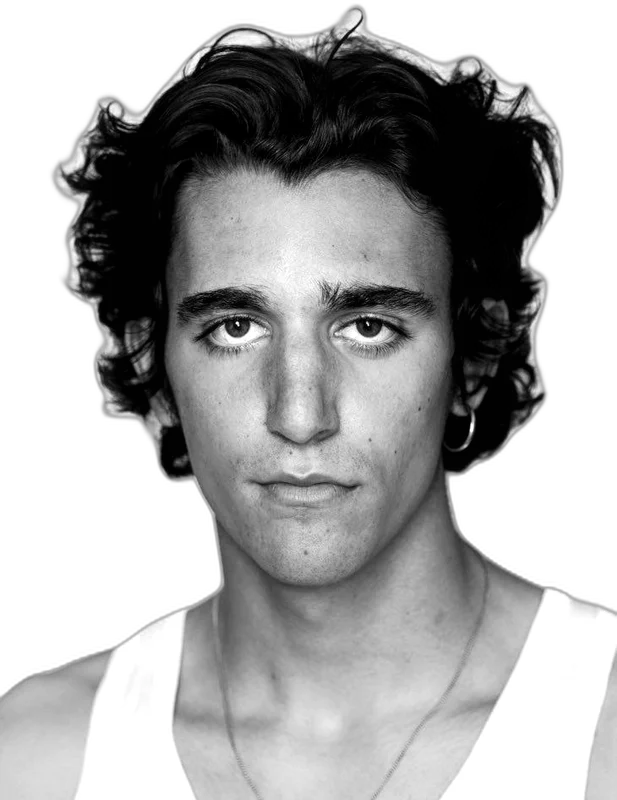
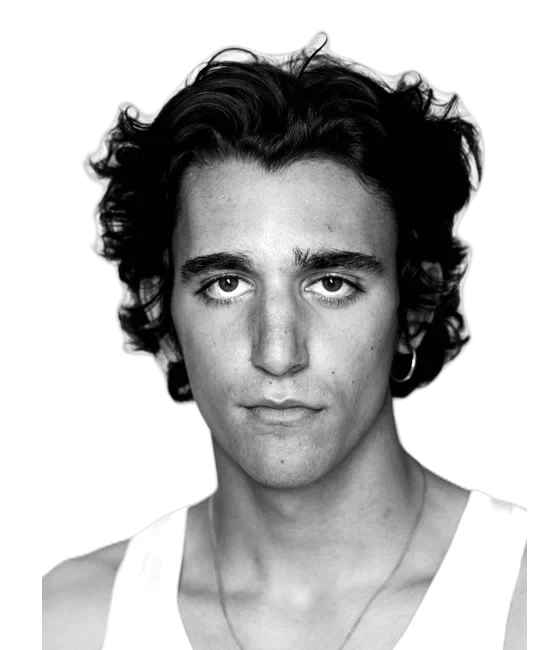
Team: new photos for Sarah, Liam and Qanita, all scaled to the same face size on the page and the ID cards
Claude-Session: https://claude.ai/code/session_015HsWK3J51QiDdfrAUgvUwV

diff --git a/lib/team.ts b/lib/team.ts
@@ -22,8 +22,10 @@ export type Member = {
   cardPhoto: string;
   /** which side of the team page their face sits on */
   side: "left" | "right";
-  /** how wide their face is compared to its height, for the team page */
+  /** how wide their head image is compared to its height, for the team page */
   faceAspect: number;
+  /** how tall their head image is compared to the tallest one; every image is at the same face scale */
+  faceScale: number;
 };
 
 export const team: Member[] = [
@@ -41,7 +43,8 @@ export const team: Member[] = [
     photo: "/team/sarah.webp",
     cardPhoto: "/team/sarah-card.webp",
     side: "left",
-    faceAspect: 1.049,
+    faceAspect: 0.901,
+    faceScale: 0.828,
   },
   {
     id: "hadi",
@@ -57,7 +60,8 @@ export const team: Member[] = [
     photo: "/team/hadi.webp",
     cardPhoto: "/team/hadi-card.webp",
     side: "right",
-    faceAspect: 0.933,
+    faceAspect: 0.919,
+    faceScale: 0.96,
   },
   {
     id: "liam",
@@ -73,7 +77,8 @@ export const team: Member[] = [
     photo: "/team/liam.webp",
     cardPhoto: "/team/liam-card.webp",
     side: "left",
-    faceAspect: 0.904,
+    faceAspect: 1.081,
+    faceScale: 0.977,
   },
   {
     id: "qanita",
@@ -89,6 +94,7 @@ export const team: Member[] = [
     photo: "/team/qanita.webp",
     cardPhoto: "/team/qanita-card.webp",
     side: "right",
-    faceAspect: 0.886,
+    faceAspect: 1.092,
+    faceScale: 1.0,
   },
 ];

diff --git a/components/IdCard.module.css b/components/IdCard.module.css
@@ -137,12 +137,13 @@
   font-size: 11px;
 }
 
+/* the same photo size on every card, so the faces match */
 .middle {
   display: flex;
   align-items: stretch;
   gap: 12px;
-  flex: 1;
-  min-height: 0;
+  flex: none;
+  height: 46%;
   margin: 14px 0 12px;
 }
 
@@ -152,15 +153,14 @@
   overflow: hidden;
 }
 
+/* every card photo is framed the same way, so faces match in size */
 .photo img {
   position: absolute;
-  left: 50%;
-  bottom: 0;
+  inset: 0;
+  width: 100%;
   height: 100%;
-  width: auto;
-  max-width: none;
-  transform: translateX(-50%);
-  filter: grayscale(1);
+  object-fit: cover;
+  object-position: center 40%;
 }
 
 .barcode {

diff --git a/app/team/page.tsx b/app/team/page.tsx
@@ -38,8 +38,9 @@ export default function TeamPage() {
             style={
               {
                 top: `${SPOTS[i].faceTop}%`,
-                height: `${FACE_H}%`,
+                height: `${FACE_H * m.faceScale}%`,
                 "--aspect": m.faceAspect,
+                "--scale": m.faceScale,
               } as CSSProperties
             }
             aria-label={`${m.name}'s ID card`}

diff --git a/app/team/team.module.css b/app/team/team.module.css
@@ -33,7 +33,7 @@
   position: absolute;
   right: 74%;
   /* the face is 27% of the poster's height; show a little over half of it */
-  width: calc(var(--aspect) * 29cqw / var(--ratio) * 0.55);
+  width: calc(var(--aspect) * var(--scale) * 29cqw / var(--ratio) * 0.55);
   overflow: hidden;
   z-index: 1;
 }
